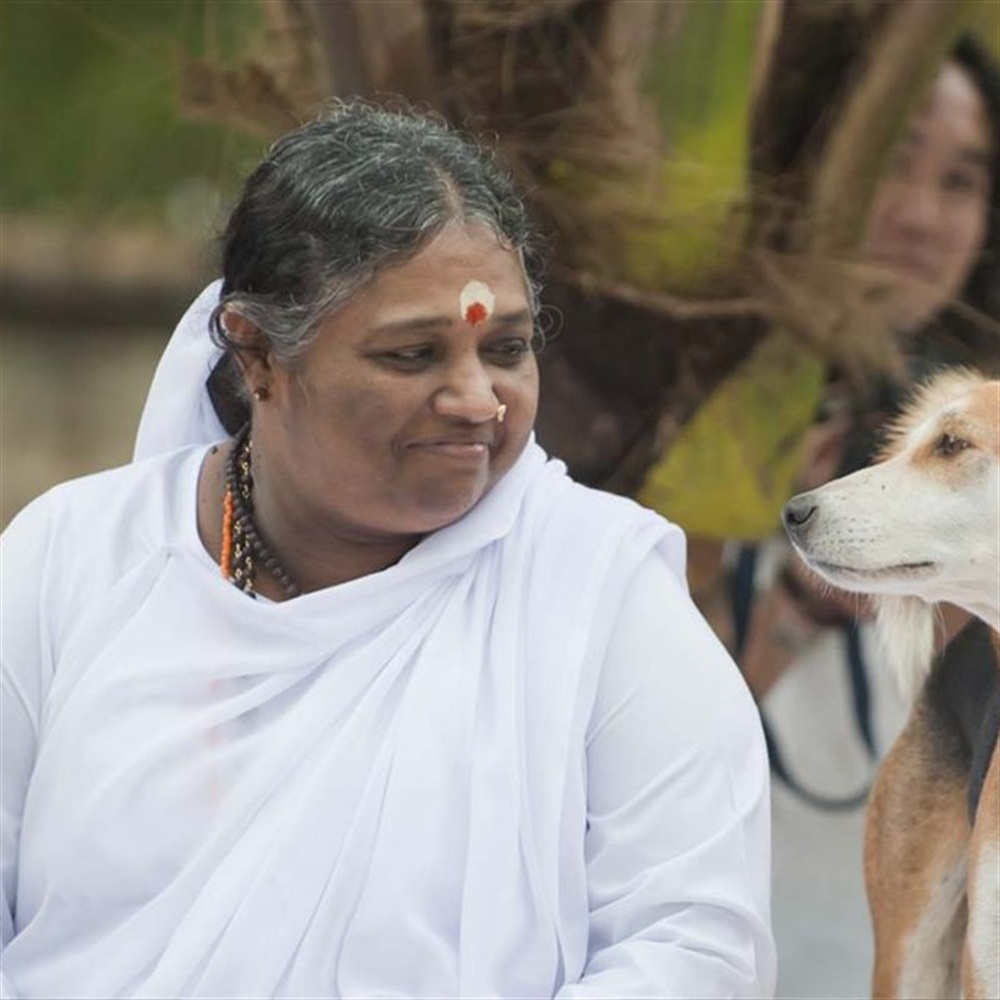
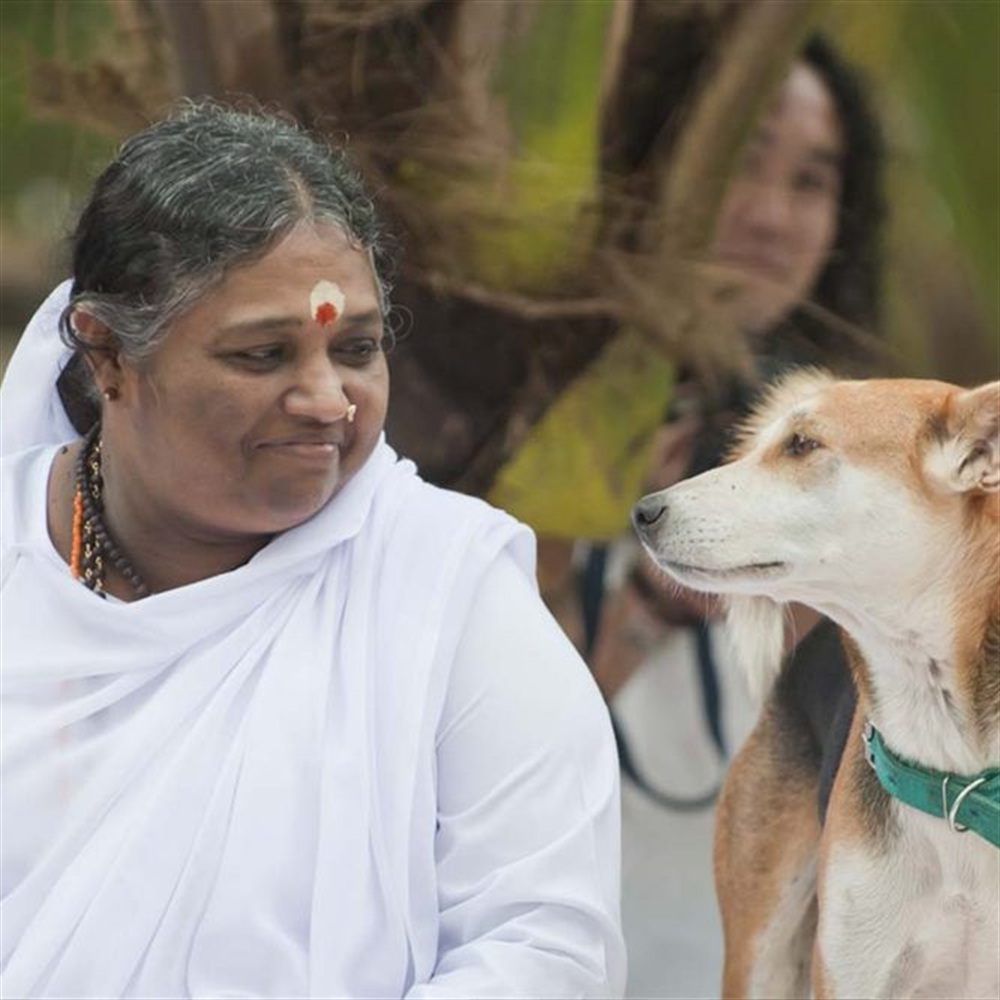
Recenter and frame amma_3.jpg to make rescue dog fully visible alongside Amma

diff --git a/index.html b/index.html
@@ -847,7 +847,7 @@
   <script src="https://cdn.jsdelivr.net/npm/bootstrap@5.3.3/dist/js/bootstrap.bundle.min.js"></script>
 
   <!-- VOKAL Scripts -->
-  <script src="js/data.js?v=8.8"></script>
+  <script src="js/data.js?v=8.9"></script>
   <script src="js/storage.js?v=8.8"></script>
   <script src="js/main.js?v=8.8"></script>
 </body>

diff --git a/js/data.js b/js/data.js
@@ -65,7 +65,7 @@ const VOKAL_DEFAULT_DATA = {
       portrait: "assets/masters/amma_1.jpg?v=3.0",
       images: [
         "assets/masters/amma_1.jpg?v=3.0",
-        "assets/masters/amma_3.jpg?v=3.0",
+        "assets/masters/amma_3.jpg?v=3.1",
         "assets/masters/amma_4.jpg?v=3.0"
       ],
       photoIntervalSeconds: 10,
